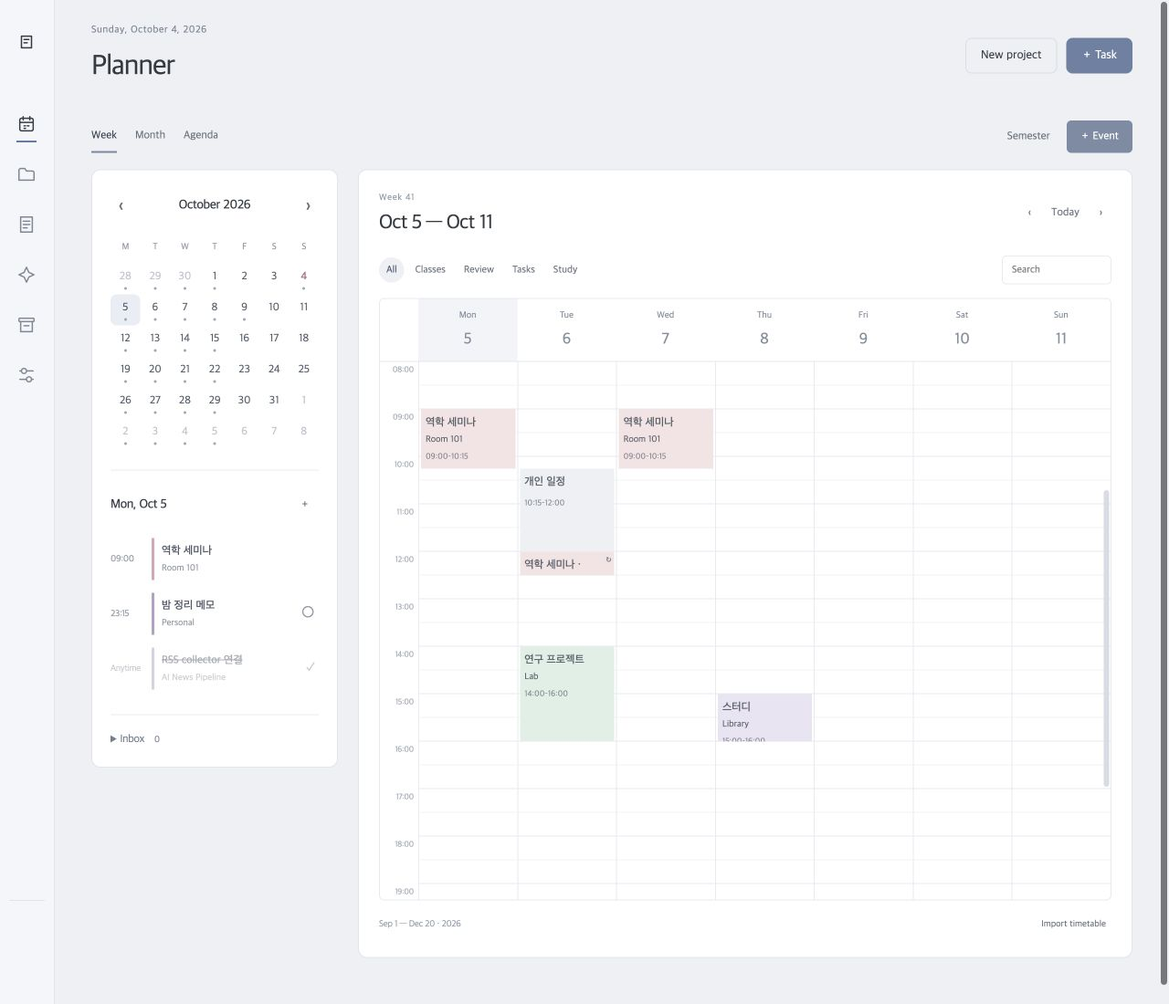
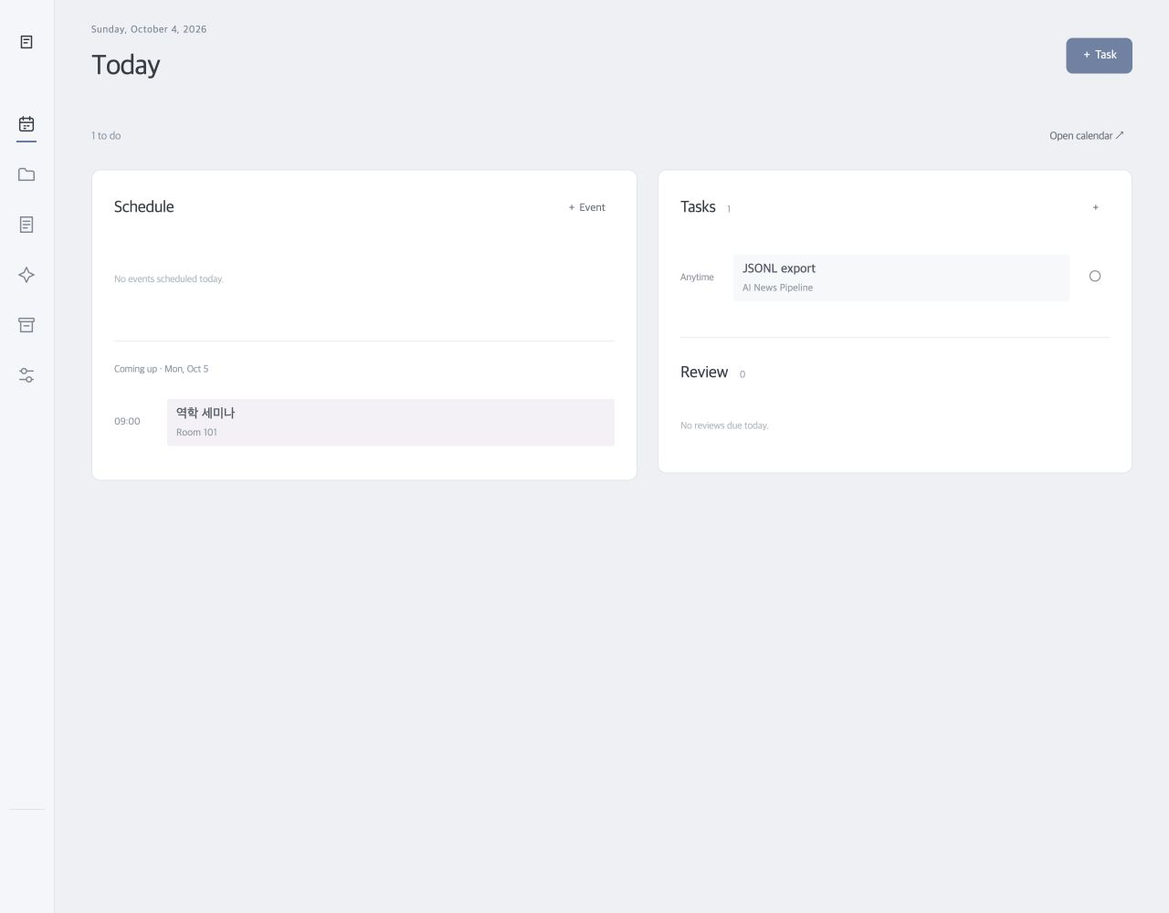
Start calendars on Sunday and separate Today from the planner

diff --git a/js/semesterPlanner.js b/js/semesterPlanner.js
@@ -1,9 +1,9 @@
-import { getState, saveState, id, todayKey, escapeHtml as esc } from './supabaseClient.js?v=8';
-import { weekDates, timedEvents } from './plannerView.js';
-import { weekdays, dateKey, shiftDate, minutes, clock, validateEvent, occursOn, dayEntries, monthDays, parseTimetable, reviewPlan } from './semesterStore.js';
+import { getState, saveState, id, todayKey, escapeHtml as esc } from './supabaseClient.js?v=9';
+import { weekDates, timedEvents } from './plannerView.js?v=2';
+import { weekdays, dateKey, shiftDate, minutes, clock, validateEvent, occursOn, dayEntries, monthDays, parseTimetable, reviewPlan, todaySummary } from './semesterStore.js?v=2';
 import { writeNote } from './notesStore.js';
 
-export function initializeSemesterPlanner(userId, onChange = () => {}) {
+export function initializeSemesterPlanner(userId, onChange = () => {}, {view='planner'} = {}) {
   const root=document.querySelector('#workspace-view'), today=todayKey();
   let selected=today, month=today.slice(0,7)+'-01', mode=matchMedia('(max-width:800px)').matches?'month':'week', query='', kind='all', current=null, editing=null, reviews=[];
   const label=(day,options={month:'short',day:'numeric'})=>new Date(day+'T12:00:00').toLocaleDateString('en-US',options);
@@ -14,10 +14,11 @@ export function initializeSemesterPlanner(userId, onChange = () => {}) {
   const ownedTasks=()=>{const s=getState();return s.tasks.filter(t=>t.user_id===userId&&s.projects.some(p=>p.id===t.project_id&&p.user_id===userId));};
   const button=(text,attrs='')=>`<button type="button" class="cal-button" ${attrs}>${text}</button>`;
   root.classList.add('semester-workspace');
+  root.classList.toggle('is-today-workspace',view==='today');
   root.innerHTML=`<div class="semester-toolbar"><div class="cal-segments" aria-label="Calendar view">${['week','month','agenda'].map(m=>button(m[0].toUpperCase()+m.slice(1),`data-mode="${m}" aria-pressed="${mode===m}"`)).join('')}</div><div class="calendar-actions">${button('Semester','data-action="semester"')}${button('＋ Event','data-action="new-event"')}</div></div>
     <div class="semester-layout"><aside class="calendar-sidebar"><section class="mini-month" aria-label="Date picker"></section><section class="selected-day"><div class="calendar-section-heading"><h2 id="selected-day-label"></h2>${button('＋','data-action="new-task" aria-label="Add task on selected day"')}</div><div id="selected-day-items"></div></section><details class="task-inbox" id="calendar-overdue"><summary>Overdue <span id="calendar-overdue-count"></span></summary><div id="calendar-overdue-list"></div></details><details class="task-inbox"><summary>Inbox <span id="inbox-count"></span></summary><div id="inbox-list"></div></details></aside>
     <section class="semester-main"><header class="calendar-heading"><div><p id="calendar-subtitle"></p><h2 id="calendar-period"></h2></div><div class="calendar-paging">${button('‹','data-action="previous" aria-label="Previous period"')}${button('Today','data-action="today"')}${button('›','data-action="next" aria-label="Next period"')}</div></header>
-      <div class="calendar-filter"><div class="calendar-kinds">${[['all','All'],['class','Classes'],['review','Review'],['task','Tasks'],['study','Study']].map(([k,text])=>button(text,`data-kind="${k}" aria-pressed="${k==='all'}"`)).join('')}</div><input type="search" id="calendar-search" aria-label="Search calendar" placeholder="Search"></div><div id="semester-grid"></div><footer class="calendar-foot"><span id="semester-caption"></span>${button('Import timetable','data-action="import"')}</footer></section></div>`;
+      <div class="calendar-filter"><div class="calendar-kinds">${[['all','All'],['class','Classes'],['review','Review'],['task','Tasks'],['study','Study']].map(([k,text])=>button(text,`data-kind="${k}" aria-pressed="${k==='all'}"`)).join('')}</div><input type="search" id="calendar-search" aria-label="Search calendar" placeholder="Search"></div><div id="semester-grid"></div><footer class="calendar-foot"><span id="semester-caption"></span>${button('Import timetable','data-action="import"')}</footer></section></div><div id="today-overview" ${view==='today'?'':'hidden'}></div>`;
   document.body.insertAdjacentHTML('beforeend',`
     <dialog id="semester-event" class="modal calendar-modal"><form id="semester-event-form"><header><p class="eyebrow">Calendar</p><h2 id="event-editor-title">New event</h2></header><label>Name<input name="title" required maxlength="120"></label><div class="schedule-fields"><label>Type<select name="kind"><option value="class">Class</option><option value="study">Study</option><option value="event">Personal</option></select></label><label>Location<input name="location" maxlength="80" placeholder="Room or link"></label><label>Date<input name="first_date" type="date" required></label><label>Repeat<select name="repeat"><option value="none">Once</option><option value="weekly">Weekly</option><option value="daily">Daily</option></select></label><label>Start<input name="start_time" type="time" required></label><label>End<input name="end_time" type="time" required></label><label class="recurrence-field">Weekday<select name="weekday">${weekdays.map((d,i)=>`<option value="${i}">${d}</option>`).join('')}</select></label><label class="recurrence-field">Until<input name="last_date" type="date"></label></div><fieldset class="calendar-swatches"><legend>Color</legend>${['Rose','Butter','Mint','Sky','Lilac','Peach'].map((text,i)=>`<label class="tone-${i}" title="${text}"><input type="radio" name="color" value="${i}" ${i===0?'checked':''} aria-label="${text}"></label>`).join('')}</fieldset><p class="form-error" role="alert"></p><div class="form-actions">${button('Pause series','id="pause-series" hidden')}${button('Restore skipped dates','id="restore-skipped" hidden')}${button('Cancel','data-close') }<button class="button button-primary" type="submit">Save event</button></div></form></dialog>
     <dialog id="semester-settings" class="modal calendar-modal"><form id="semester-settings-form"><p class="eyebrow">Timetable</p><h2>Semester</h2><div class="schedule-fields"><label>Start date<input type="date" name="start" required></label><label>End date<input type="date" name="end" required></label></div><p class="calendar-hint">Applies to repeating classes. Study sessions and tasks keep their dates.</p><div id="semester-class-list"></div><p class="form-error" role="alert"></p><div class="form-actions">${button('Cancel','data-close')}<button class="button button-primary" type="submit">Save semester</button></div></form></dialog>
@@ -33,21 +34,37 @@ export function initializeSemesterPlanner(userId, onChange = () => {}) {
   document.querySelectorAll('.calendar-modal [data-close]').forEach(b=>b.onclick=()=>b.closest('dialog').close());
   function dayButton(day,large=false){const list=entries(day),active=day===selected;return `<button type="button" data-date="${day}" class="month-date ${active?'selected':''} ${day===today?'is-today':''} ${day.slice(0,7)!==month.slice(0,7)?'other-month':''}" aria-label="${label(day,{weekday:'long',month:'long',day:'numeric',year:'numeric'})}" aria-pressed="${active}"><span>${Number(day.slice(8))}</span>${large?`<div class="month-events">${list.slice(0,3).map(e=>`<small class="${color(e)} ${e.completed?'is-complete':''}">${esc(e.title)}</small>`).join('')}${list.length>3?`<em>+${list.length-3}</em>`:''}</div>`:`<i class="month-dot ${list.length?'has-events':''}"></i>`}</button>`;}
   function row(e){return `<div class="calendar-day-row ${e.completed?'is-complete':''}"><span class="calendar-row-time">${e.start_time||'Anytime'}</span><button type="button" class="calendar-item ${color(e)}" data-entry="${e.id}" data-source="${e.source}" data-on="${e.date}"><strong>${esc(e.title)}</strong><small>${esc(e.location||({class:'Class',review:'Review',task:'Task',study:'Study',event:'Personal'}[e.kind]))}</small></button>${e.kind!=='class'?`<button type="button" class="calendar-check" data-complete="${e.id}" data-source="${e.source}" data-on="${e.date}" aria-label="${e.completed?'Reopen':'Complete'} ${esc(e.title)}" aria-pressed="${Boolean(e.completed)}">${e.completed?'✓':'○'}</button>`:''}</div>`;}
+  function renderToday(){
+    const summary=todaySummary(getState(),userId,today);
+    const list=(items,empty)=>items.map(row).join('')||`<p class="calendar-empty">${empty}</p>`;
+    const next=summary.next;
+    const wasOpen=Object.fromEntries([...root.querySelectorAll('.today-disclosure')].map(el=>[el.id,el.open]));
+    $('#today-overview').innerHTML=`<div class="today-toolbar"><span>${summary.tasks.length+summary.reviews.length} to do</span><a class="cal-button" href="index.html">Open calendar ↗</a></div>
+      <div class="today-layout"><section class="today-panel today-schedule"><header class="today-section-heading"><h2>Schedule</h2>${button('＋ Event','data-action="new-event"')}</header>
+        <div class="today-schedule-list">${list(summary.schedule,'No events scheduled today.')}</div>
+        ${next?`<section class="today-next"><p>Coming up · ${label(next.date,{weekday:'short',month:'short',day:'numeric'})}</p>${row(next)}</section>`:''}</section>
+      <section class="today-panel today-checklist"><section><header class="today-section-heading"><h2>Tasks <span>${summary.tasks.length}</span></h2>${button('＋','data-action="new-task" aria-label="Add task today"')}</header>${list(summary.tasks,'All caught up.')}</section>
+        <section class="today-review"><header class="today-section-heading"><h2>Review <span>${summary.reviews.length}</span></h2></header>${list(summary.reviews,'No reviews due today.')}</section>
+        ${summary.overdue.length?`<details class="task-inbox today-disclosure" id="today-overdue" ${wasOpen['today-overdue']?'open':''}><summary>Overdue <span>${summary.overdue.length}</span></summary>${list(summary.overdue,'')}</details>`:''}
+        ${summary.completed.length?`<details class="task-inbox today-disclosure" id="today-completed" ${wasOpen['today-completed']?'open':''}><summary>Completed <span>${summary.completed.length}</span></summary>${list(summary.completed,'')}</details>`:''}
+      </section></div>`;
+  }
   function refresh(){
+    if(view==='today'){renderToday();return;}
     const days=weekDates(selected),s=semester();
-    $('.mini-month').innerHTML=`<header>${button('‹','data-month="-1" aria-label="Previous month"')}<h2>${label(month,{month:'long',year:'numeric'})}</h2>${button('›','data-month="1" aria-label="Next month"')}</header><div class="mini-weekdays">${['M','T','W','T','F','S','S'].map(d=>`<span>${d}</span>`).join('')}</div><div class="mini-days">${monthDays(month).map(d=>dayButton(d)).join('')}</div>`;
+    $('.mini-month').innerHTML=`<header>${button('‹','data-month="-1" aria-label="Previous month"')}<h2>${label(month,{month:'long',year:'numeric'})}</h2>${button('›','data-month="1" aria-label="Next month"')}</header><div class="mini-weekdays">${['S','M','T','W','T','F','S'].map(d=>`<span>${d}</span>`).join('')}</div><div class="mini-days">${monthDays(month).map(d=>dayButton(d)).join('')}</div>`;
     $('#selected-day-label').textContent=label(selected,{weekday:'short',month:'short',day:'numeric'});
     const list=entries(selected);$('#selected-day-items').innerHTML=list.map(row).join('')||'<p class="calendar-empty">A clear day.</p>';
     const late=ownedTasks().filter(t=>!t.completed&&((t.due_date&&t.due_date<today)||(t.planned_date&&t.planned_date<today)));$('#calendar-overdue').hidden=!late.length;$('#calendar-overdue-count').textContent=late.length;$('#calendar-overdue-list').innerHTML=late.map(t=>row({...t,source:'task',kind:'task',date:t.planned_date||t.due_date})).join('');
     const inbox=ownedTasks().filter(t=>!t.completed&&!t.planned_date&&(!query||t.title.toLocaleLowerCase().includes(query)));
     $('#inbox-count').textContent=inbox.length;$('#inbox-list').innerHTML=inbox.map(t=>row({...t,source:'task',kind:'task',date:selected})).join('')||'<p class="calendar-empty">All caught up.</p>';
-    $('#calendar-subtitle').textContent=mode==='week'?'Week '+weekNumber(selected):mode==='month'?'Monthly overview':'Daily list';
+    $('#calendar-subtitle').textContent=mode==='week'?'Weekly timetable':mode==='month'?'Monthly overview':'Daily list';
     $('#calendar-period').textContent=mode==='month'?label(month,{month:'long',year:'numeric'}):label(days[0])+' — '+label(days[6]);
     $('#semester-caption').textContent=label(s.start)+' — '+label(s.end)+' · '+s.end.slice(0,4);
     root.querySelectorAll('[data-mode]').forEach(b=>b.setAttribute('aria-pressed',String(b.dataset.mode===mode)));
     root.querySelectorAll('[data-kind]').forEach(b=>b.setAttribute('aria-pressed',String(b.dataset.kind===kind)));
     const grid=$('#semester-grid'), previous=grid.querySelector('.semester-time-scroll'),top=previous?.scrollTop,left=previous?.scrollLeft;
-    if(mode==='month')grid.innerHTML=`<div class="full-month"><div class="month-weekdays">${['Mon','Tue','Wed','Thu','Fri','Sat','Sun'].map(d=>`<span>${d}</span>`).join('')}</div><div class="full-month-days">${monthDays(month).slice(0,monthDays(month)[35].slice(0,7)===month.slice(0,7)?42:35).map(d=>dayButton(d,true)).join('')}</div></div>`;
+    if(mode==='month')grid.innerHTML=`<div class="full-month"><div class="month-weekdays">${weekdays.map(d=>`<span>${d}</span>`).join('')}</div><div class="full-month-days">${monthDays(month).slice(0,monthDays(month)[35].slice(0,7)===month.slice(0,7)?42:35).map(d=>dayButton(d,true)).join('')}</div></div>`;
     else if(mode==='agenda')grid.innerHTML=`<div class="semester-agenda">${days.map(day=>`<section><h3><button data-date="${day}">${label(day,{weekday:'short',month:'short',day:'numeric'})}</button></h3>${entries(day).map(row).join('')||'<p class="calendar-empty">No events.</p>'}</section>`).join('')}</div>`;
     else{
       const events=days.map(day=>entries(day));
@@ -59,7 +76,6 @@ export function initializeSemesterPlanner(userId, onChange = () => {}) {
     }
     root.dataset.mode=mode;
   }
-  function weekNumber(day){const d=new Date(day+'T12:00:00');d.setDate(d.getDate()+3-(d.getDay()+6)%7);const first=new Date(d.getFullYear(),0,4);return 1+Math.round(((d-first)/86400000-3+(first.getDay()+6)%7)/7);}
   function selectDate(day){selected=day;month=day.slice(0,7)+'-01';refresh();}
   function moveMonth(amount){const d=new Date(month+'T12:00:00');d.setMonth(d.getMonth()+amount);month=dateKey(d);if(mode==='month')selected=month;refresh();}
   function findEntry(id,source,day){return source==='task'?ownedTasks().find(e=>e.id===id):dayEntries(getState(),userId,day).find(e=>e.id===id&&e.source==='event');}

diff --git a/js/supabaseClient.js b/js/supabaseClient.js
@@ -16,5 +16,5 @@ export function saveSettings(userId, settings) { const state = getState(); state
 export function seedDemo() { const state = getState(); if (state.projects.length) return; const projectId = id(); const today = todayKey(); state.settings.demo = getSettings('demo'); state.projects.push({ id: projectId, user_id: 'demo', name: 'AI News Pipeline', description: '개인 뉴스 자동화 프로젝트', project_type: 'development', goal: 'AI 뉴스를 자동 수집하고 분석하여 매주 읽을 수 있는 리포트를 완성한다.', due_date: addDays(today, 12), status: 'active', created_at: new Date().toISOString(), updated_at: new Date().toISOString() }); ['RSS collector 연결','기사 요약 프롬프트 설계','CSV export 구현','JSONL export','README 실행 방법 보완'].forEach((title, index) => state.tasks.push({ id: id(), project_id: projectId, user_id: 'demo', title, priority: index < 2 ? 'high' : 'medium', completed: index < 3, planned_date: index === 3 ? today : addDays(today, index + 1), due_date: addDays(today, index + 4), created_at: new Date().toISOString(), updated_at: new Date().toISOString() })); state.issues.push({ id: id(), project_id: projectId, user_id: 'demo', content: '일부 수집 데이터의 날짜 정보가 누락됨', severity: 'high', status: 'open', created_at: new Date().toISOString() }); saveState(state); }
 export function projectProgress(projectId, state = getState()) { const tasks = state.tasks.filter(task => task.project_id === projectId); return tasks.length ? Math.round(tasks.filter(task => task.completed).length / tasks.length * 100) : 0; }
 export function logout() { setSession(null); location.href = 'login.html'; }
-export function wireLogout() { document.querySelectorAll('button[value="cancel"]').forEach(button=>{button.type="button";button.addEventListener("click",()=>button.closest("dialog").close());}); document.querySelectorAll('[data-logout]').forEach(button => button.addEventListener('click', logout)); if (document.body.dataset.page !== 'login' && !document.querySelector('.workspace-sidebar')) { document.head.insertAdjacentHTML('beforeend', '<link rel="stylesheet" href="css/style.css?v=2"><link rel="stylesheet" href="css/v12.css?v=1"><link rel="stylesheet" href="css/calendar.css?v=1"><link rel="stylesheet" href="css/settings.css?v=1"><link rel="stylesheet" href="css/roles.css?v=1"><link rel="stylesheet" href="css/design.css?v=7">'); const page = document.body.dataset.page; const selectedView = new URLSearchParams(location.search).get('view'); const active = page === 'archive' ? 'archive' : page === 'dashboard' ? (selectedView === 'notes' ? 'notes' : selectedView === 'ai' ? 'ai' : selectedView === 'projects' ? 'projects' : 'dashboard') : page === 'settings' ? 'settings' : page === 'insights' ? 'ai' : 'projects'; document.body.insertAdjacentHTML('afterbegin', `<div class="navigation-drawer"><aside id="workspace-menu" class="workspace-sidebar"><a class="sidebar-brand" href="index.html"><svg class="nav-icon" viewBox="0 0 24 24" fill="none" stroke="currentColor" stroke-width="1.6" stroke-linecap="round" stroke-linejoin="round" aria-hidden="true"><path d="M6 5h12v14H6zM9 9h6m-6 4h4"/></svg><span class="brand-label">ProjectFlow</span></a><nav><a class="sidebar-link ${active === 'dashboard' ? 'selected' : ''}" href="index.html" title="Today"><svg class="nav-icon" viewBox="0 0 24 24" fill="none" stroke="currentColor" stroke-width="1.6" stroke-linecap="round" stroke-linejoin="round" aria-hidden="true"><rect x="4" y="5" width="16" height="15" rx="2"/><path d="M8 3v4m8-4v4M4 10h16m-11 4h2m2 0h2m-6 3h2"/></svg><span class="nav-label">Today</span></a><a class="sidebar-link ${active === 'projects' ? 'selected' : ''}" href="index.html?view=projects" title="Projects"><svg class="nav-icon" viewBox="0 0 24 24" fill="none" stroke="currentColor" stroke-width="1.6" stroke-linecap="round" stroke-linejoin="round" aria-hidden="true"><path d="M3 7a2 2 0 0 1 2-2h5l2 3h7a2 2 0 0 1 2 2v9H3z"/></svg><span class="nav-label">Projects</span></a><a class="sidebar-link ${active === 'notes' ? 'selected' : ''}" href="index.html?view=notes" title="Notes"><svg class="nav-icon" viewBox="0 0 24 24" fill="none" stroke="currentColor" stroke-width="1.6" stroke-linecap="round" stroke-linejoin="round" aria-hidden="true"><path d="M5 3h14v18H5zM8 8h8m-8 4h8m-8 4h5"/></svg><span class="nav-label">Notes</span></a><a class="sidebar-link ${active === 'ai' ? 'selected' : ''}" href="index.html?view=ai" title="AI"><svg class="nav-icon" viewBox="0 0 24 24" fill="none" stroke="currentColor" stroke-width="1.6" stroke-linecap="round" stroke-linejoin="round" aria-hidden="true"><path d="m12 3 2.8 6.2L21 12l-6.2 2.8L12 21l-2.8-6.2L3 12l6.2-2.8z"/></svg><span class="nav-label">AI</span></a><a class="sidebar-link ${active === 'archive' ? 'selected' : ''}" href="archive.html" title="Archive"><svg class="nav-icon" viewBox="0 0 24 24" fill="none" stroke="currentColor" stroke-width="1.6" stroke-linecap="round" stroke-linejoin="round" aria-hidden="true"><rect x="3" y="4" width="18" height="4" rx="1"/><path d="M5 8v12h14V8m-10 5h6"/></svg><span class="nav-label">Archive</span></a><a class="sidebar-link ${active === 'settings' ? 'selected' : ''}" href="settings.html" title="Settings"><svg class="nav-icon" viewBox="0 0 24 24" fill="none" stroke="currentColor" stroke-width="1.6" stroke-linecap="round" stroke-linejoin="round" aria-hidden="true"><path d="M4 7h16M4 17h16"/><circle cx="9" cy="7" r="3" fill="#f5f6fa"/><circle cx="15" cy="17" r="3" fill="#f5f6fa"/></svg><span class="nav-label">Settings</span></a></nav><div class="sidebar-footer"><span class="sidebar-status">Personal workspace</span><button class="sidebar-logout" data-logout>Sign out</button></div></aside></div>`); const drawer=document.querySelector('.navigation-drawer');let openTimer,closeTimer;drawer.addEventListener('mouseenter',()=>{clearTimeout(closeTimer);if(matchMedia('(hover: hover) and (min-width:801px)').matches){clearTimeout(openTimer);openTimer=setTimeout(()=>drawer.classList.add('hover-open'),80);}});drawer.addEventListener('mouseleave',()=>{clearTimeout(openTimer);closeTimer=setTimeout(()=>drawer.classList.remove('hover-open'),180);});const sidebarLogout = document.querySelector('.sidebar-logout'); if (sidebarLogout) sidebarLogout.addEventListener('click', logout); } }
+export function wireLogout() { document.querySelectorAll('button[value="cancel"]').forEach(button=>{button.type="button";button.addEventListener("click",()=>button.closest("dialog").close());}); document.querySelectorAll('[data-logout]').forEach(button => button.addEventListener('click', logout)); if (document.body.dataset.page !== 'login' && !document.querySelector('.workspace-sidebar')) { document.head.insertAdjacentHTML('beforeend', '<link rel="stylesheet" href="css/style.css?v=2"><link rel="stylesheet" href="css/v12.css?v=1"><link rel="stylesheet" href="css/calendar.css?v=1"><link rel="stylesheet" href="css/settings.css?v=1"><link rel="stylesheet" href="css/roles.css?v=1"><link rel="stylesheet" href="css/design.css?v=7">'); const page = document.body.dataset.page; const selectedView = new URLSearchParams(location.search).get('view'); const active = page === 'archive' ? 'archive' : page === 'dashboard' ? (selectedView === 'notes' ? 'notes' : selectedView === 'ai' ? 'ai' : selectedView === 'projects' ? 'projects' : selectedView === 'today' ? 'today' : 'planner') : page === 'settings' ? 'settings' : page === 'insights' ? 'ai' : 'projects'; document.body.insertAdjacentHTML('afterbegin', `<div class="navigation-drawer"><aside id="workspace-menu" class="workspace-sidebar"><a class="sidebar-brand" href="index.html" ${active === 'planner' ? 'aria-current="page"' : ''}><svg class="nav-icon" viewBox="0 0 24 24" fill="none" stroke="currentColor" stroke-width="1.6" stroke-linecap="round" stroke-linejoin="round" aria-hidden="true"><path d="M6 5h12v14H6zM9 9h6m-6 4h4"/></svg><span class="brand-label">ProjectFlow</span></a><nav><a class="sidebar-link ${active === 'today' ? 'selected' : ''}" href="index.html?view=today" title="Today" ${active === 'today' ? 'aria-current="page"' : ''}><svg class="nav-icon" viewBox="0 0 24 24" fill="none" stroke="currentColor" stroke-width="1.6" stroke-linecap="round" stroke-linejoin="round" aria-hidden="true"><rect x="4" y="5" width="16" height="15" rx="2"/><path d="M8 3v4m8-4v4M4 10h16m-11 4h2m2 0h2m-6 3h2"/></svg><span class="nav-label">Today</span></a><a class="sidebar-link ${active === 'projects' ? 'selected' : ''}" href="index.html?view=projects" title="Projects"><svg class="nav-icon" viewBox="0 0 24 24" fill="none" stroke="currentColor" stroke-width="1.6" stroke-linecap="round" stroke-linejoin="round" aria-hidden="true"><path d="M3 7a2 2 0 0 1 2-2h5l2 3h7a2 2 0 0 1 2 2v9H3z"/></svg><span class="nav-label">Projects</span></a><a class="sidebar-link ${active === 'notes' ? 'selected' : ''}" href="index.html?view=notes" title="Notes"><svg class="nav-icon" viewBox="0 0 24 24" fill="none" stroke="currentColor" stroke-width="1.6" stroke-linecap="round" stroke-linejoin="round" aria-hidden="true"><path d="M5 3h14v18H5zM8 8h8m-8 4h8m-8 4h5"/></svg><span class="nav-label">Notes</span></a><a class="sidebar-link ${active === 'ai' ? 'selected' : ''}" href="index.html?view=ai" title="AI"><svg class="nav-icon" viewBox="0 0 24 24" fill="none" stroke="currentColor" stroke-width="1.6" stroke-linecap="round" stroke-linejoin="round" aria-hidden="true"><path d="m12 3 2.8 6.2L21 12l-6.2 2.8L12 21l-2.8-6.2L3 12l6.2-2.8z"/></svg><span class="nav-label">AI</span></a><a class="sidebar-link ${active === 'archive' ? 'selected' : ''}" href="archive.html" title="Archive"><svg class="nav-icon" viewBox="0 0 24 24" fill="none" stroke="currentColor" stroke-width="1.6" stroke-linecap="round" stroke-linejoin="round" aria-hidden="true"><rect x="3" y="4" width="18" height="4" rx="1"/><path d="M5 8v12h14V8m-10 5h6"/></svg><span class="nav-label">Archive</span></a><a class="sidebar-link ${active === 'settings' ? 'selected' : ''}" href="settings.html" title="Settings"><svg class="nav-icon" viewBox="0 0 24 24" fill="none" stroke="currentColor" stroke-width="1.6" stroke-linecap="round" stroke-linejoin="round" aria-hidden="true"><path d="M4 7h16M4 17h16"/><circle cx="9" cy="7" r="3" fill="#f5f6fa"/><circle cx="15" cy="17" r="3" fill="#f5f6fa"/></svg><span class="nav-label">Settings</span></a></nav><div class="sidebar-footer"><span class="sidebar-status">Personal workspace</span><button class="sidebar-logout" data-logout>Sign out</button></div></aside></div>`); const drawer=document.querySelector('.navigation-drawer');let openTimer,closeTimer;drawer.addEventListener('mouseenter',()=>{clearTimeout(closeTimer);if(matchMedia('(hover: hover) and (min-width:801px)').matches){clearTimeout(openTimer);openTimer=setTimeout(()=>drawer.classList.add('hover-open'),80);}});drawer.addEventListener('mouseleave',()=>{clearTimeout(openTimer);closeTimer=setTimeout(()=>drawer.classList.remove('hover-open'),180);});const sidebarLogout = document.querySelector('.sidebar-logout'); if (sidebarLogout) sidebarLogout.addEventListener('click', logout); } }
 export function escapeHtml(value = '') { return value.replace(/[&<>'"]/g, char => ({ '&':'&amp;', '<':'&lt;', '>':'&gt;', "'":'&#39;', '"':'&quot;' }[char])); }

diff --git a/index.html b/index.html
@@ -1,10 +1,11 @@
 <!doctype html>
 <html lang="en">
-<head><meta charset="UTF-8"><meta name="viewport" content="width=device-width, initial-scale=1"><title>ProjectFlow | Today</title><link rel="stylesheet" href="css/style.css?v=3"><link rel="stylesheet" href="css/project-delete.css?v=1"><link rel="stylesheet" href="css/design.css?v=7"><link rel="stylesheet" href="css/semester.css?v=1"></head>
+<head><meta charset="UTF-8"><meta name="viewport" content="width=device-width, initial-scale=1"><title>ProjectFlow | Planner</title><link rel="stylesheet" href="css/style.css?v=3"><link rel="stylesheet" href="css/project-delete.css?v=1"><link rel="stylesheet" href="css/design.css?v=7"><link rel="stylesheet" href="css/semester.css?v=2"></head>
 <body data-page="dashboard">
   <header class="topbar"><a class="brand" href="index.html"><span class="brand-mark">PF</span><span>ProjectFlow</span></a><nav class="top-actions"><a class="text-link" href="archive.html">Archive</a><button class="button button-ghost" data-logout>Sign out</button></nav></header>
   <main class="shell dashboard-shell planner-shell">
-    <header class="planner-heading"><div><p class="eyebrow" id="planner-date"></p><h1 id="view-title">Today</h1></div><div class="planner-header-actions"><button class="button button-ghost" data-open-project>New project</button><button class="button button-primary" id="quick-task-open">＋ Task</button></div></header>
+    <a class="mobile-planner-brand" href="index.html">ProjectFlow</a>
+    <header class="planner-heading"><div><p class="eyebrow" id="planner-date"></p><h1 id="view-title">Planner</h1></div><div class="planner-header-actions"><button class="button button-ghost" data-open-project>New project</button><button class="button button-primary" id="quick-task-open">＋ Task</button></div></header>
     <div id="workspace-view"></div>
     <section id="projects-section" class="project-board-section"><div class="section-heading"><h2>Projects <span id="active-count" class="small-count"></span></h2></div><div id="project-grid" class="project-board"></div><section id="empty-state" class="empty-state hidden"><h2>Create your first project.</h2><p>Add a goal to get an AI schedule.</p><button class="button button-primary" data-open-project>＋ New project</button></section></section>
     <section id="notes-view" class="notes-workspace hidden" aria-label="Notes">
@@ -18,7 +19,7 @@
   <dialog id="project-modal" class="modal"><form method="dialog" id="project-form"><button class="modal-close" value="cancel" aria-label="Close">×</button><p class="eyebrow">New project</p><h2>New project</h2><label>Project name<input name="name" required maxlength="80" placeholder="e.g. Mechanics II"></label><label>Project type<select name="project_type"><option value="school">School</option><option value="home">Home</option><option value="work">Work</option><option value="study">Study</option><option value="development">Development</option><option value="research">Research</option><option value="content">Content</option><option value="personal" selected>Personal</option><option value="other">Other</option></select></label><label>Goal<textarea name="goal" required rows="3" placeholder="e.g. Prepare for the final exam"></textarea></label><label>Deadline<input name="due_date" type="date"></label><label>Description (optional)<textarea name="description" rows="2" placeholder="Additional project details"></textarea></label><p class="analysis-notice">AI scheduling sends your goal and description to Codyssey. Without a deadline, it plans the next 7 days. Do not include secrets.</p><p id="project-status" class="form-status" role="status" aria-live="polite"></p><div class="form-actions"><button class="button button-ghost" value="cancel">Cancel</button><button class="button button-ghost" id="empty-project" type="button">Add manually</button><button class="button button-primary" id="ai-project" type="submit">Plan with AI</button></div></form></dialog>
   <dialog id="plan-modal" class="modal wide-modal"><form method="dialog" id="plan-form"><button class="modal-close" value="cancel" aria-label="Close">×</button><p class="eyebrow">AI SCHEDULE</p><h2 id="plan-title">Suggested schedule</h2><p class="muted">Select the sessions you want to add.</p><div id="starter-list" class="starter-list"></div><div class="form-actions"><button class="button button-ghost" value="cancel">Cancel</button><button class="button button-primary" value="default">Add selected sessions</button></div></form></dialog>
 
-  <script type="module" src="js/dashboard.js?v=12"></script>
+  <script type="module" src="js/dashboard.js?v=13"></script>
 </body>
 </html>
 

diff --git a/js/dashboard.js b/js/dashboard.js
@@ -1,7 +1,7 @@
 import { initializeNotes } from './notes.js?v=1';
 import { wireProjectDeletion } from './projectDeleteUI.js?v=2';
-import { getState, saveState, requireSession, projectProgress, id, todayKey, getProjectTypes, wireLogout, escapeHtml } from './supabaseClient.js?v=8';
-import { initializeSemesterPlanner } from './semesterPlanner.js?v=1';
+import { getState, saveState, requireSession, projectProgress, id, todayKey, getProjectTypes, wireLogout, escapeHtml } from './supabaseClient.js?v=9';
+import { initializeSemesterPlanner } from './semesterPlanner.js?v=2';
 const session=requireSession();if(!session)throw new Error('No session');
 wireLogout();wireProjectDeletion(session);
 let state=getState();const today=todayKey();
@@ -11,13 +11,16 @@ const projectById=pid=>state.projects.find(p=>p.id===pid&&p.user_id===session.id
 const taskProject=t=>projectById(t.project_id);
 const typeSelect=document.querySelector('select[name="project_type"]');
 if(typeSelect)typeSelect.innerHTML=projectTypes.map(t=>'<option value="'+t.key+'">'+escapeHtml(t.label)+'</option>').join('');
-const view=new URLSearchParams(location.search).get('view')||'today';
-document.body.classList.toggle('is-planner',view==='today');
-document.querySelector('#workspace-view').classList.toggle('hidden',view!=='today');
+const requestedView=new URLSearchParams(location.search).get('view');
+const view=['today','projects','notes','ai'].includes(requestedView)?requestedView:'planner';
+const calendarView=view==='planner'||view==='today';
+document.body.classList.toggle('is-planner',calendarView);
+document.body.classList.toggle('is-today-view',view==='today');
+document.querySelector('#workspace-view').classList.toggle('hidden',!calendarView);
 document.querySelector('#projects-section').classList.toggle('hidden',view!=='projects');
 document.querySelector('#ai-view').classList.toggle('hidden',view!=='ai');
 document.querySelector('#notes-view').classList.toggle('hidden',view!=='notes');document.querySelector('.planner-header-actions').classList.toggle('hidden',view==='notes');if(view==='notes')initializeNotes(session.id);
-document.querySelector('#view-title').textContent=view==='notes'?'Notes':view==='projects'?'Projects':view==='ai'?'AI':'Planner';
+document.querySelector('#view-title').textContent=view==='notes'?'Notes':view==='projects'?'Projects':view==='ai'?'AI':view==='today'?'Today':'Planner';
 document.title='ProjectFlow | '+document.querySelector('#view-title').textContent;
 document.querySelector('#planner-date').textContent=new Date(today+'T12:00:00').toLocaleDateString('en-US',{year:'numeric',month:'long',day:'numeric',weekday:'long'});
 const ownedTasks=()=>state.tasks.filter(t=>t.user_id===session.id&&taskProject(t));
@@ -25,7 +28,7 @@ function pastel(p){const index=state.projects.filter(p=>p.user_id===session.id).
 function renderProjects(){const projects=state.projects.filter(p=>p.user_id===session.id&&p.status!=='archived').sort((a,b)=>(a.due_date||'9999').localeCompare(b.due_date||'9999'));document.querySelector('#active-count').textContent=projects.length;document.querySelector('#project-grid').innerHTML=projects.map(p=>{const ts=ownedTasks().filter(t=>t.project_id===p.id);return '<article class="project-list-row"><a href="project.html?id='+p.id+'"><span class="project-color '+pastel(p)+'"></span><div><h3>'+escapeHtml(p.name)+'</h3><small>'+(p.due_date?'Due '+p.due_date:'No deadline')+'</small></div><span class="project-task-count">'+ts.filter(t=>t.completed).length+' / '+ts.length+'</span><span class="project-percent">'+projectProgress(p.id,state)+'%</span></a><button class="button button-ghost button-small" data-delete-project="'+p.id+'" aria-label="'+escapeHtml(p.name)+' Delete project">Delete</button></article>';}).join('');document.querySelector('#empty-state').classList.toggle('hidden',projects.length>0);document.querySelector('#project-grid').classList.toggle('hidden',!projects.length);document.querySelector('#ai-project-list').innerHTML=projects.length?projects.map(p=>'<a class="ai-project-row" href="insights.html?id='+p.id+'"><span>'+escapeHtml(p.name)+'</span><small>Insights →</small></a>').join(''):'<p class="planner-empty">Create a project first.</p>';}
 
 function render(){state=getState();renderProjects();}
-initializeSemesterPlanner(session.id,render);
+initializeSemesterPlanner(session.id,render,{view});
 render();
 const projectModal = document.querySelector('#project-modal');
 document.querySelectorAll('[data-open-project]').forEach(button => button.addEventListener('click', () => projectModal.showModal()));

diff --git a/css/semester.css b/css/semester.css
@@ -10,3 +10,38 @@
 
 body.is-planner .topbar{display:none}body.is-planner .planner-shell{padding-top:24px}.selected-day{scroll-margin-top:18px}.calendar-modal .form-actions{flex-wrap:wrap}.semester-workspace [hidden]{display:none!important}
 .semester-block{display:flex;flex-direction:column;align-items:flex-start;justify-content:flex-start}.semester-block.kind-event{background:#edf0f5}.semester-block strong{flex-shrink:0}.semester-block small{white-space:nowrap}
+
+/* The daily workspace shares the calendar editors and saved data. */
+.mobile-planner-brand{display:none}
+.is-today-view .planner-header-actions [data-open-project]{display:none}
+.is-today-workspace>.semester-toolbar,.is-today-workspace>.semester-layout{display:none}
+.today-toolbar{display:flex;align-items:center;justify-content:space-between;gap:12px;margin-bottom:18px;min-height:35px}
+.today-toolbar>span{font-size:12px;color:#909bab}
+.today-toolbar a{text-decoration:none}
+.today-layout{display:grid;grid-template-columns:minmax(0,1.15fr) minmax(0,1fr);gap:22px;align-items:start}
+.today-panel{background:#fff;border:1px solid #e1e5eb;border-radius:10px;padding:24px;min-width:0}
+.today-section-heading{display:flex;align-items:center;justify-content:space-between;gap:12px;min-height:34px;margin-bottom:20px}
+.today-section-heading h2{font-size:18px;line-height:1.4;font-weight:400;letter-spacing:-.02em;margin:0}
+.today-section-heading h2 span{font-size:11px;color:#a0a7b1;margin-left:8px}
+.today-panel .calendar-day-row{padding:13px 0;gap:12px}
+.today-panel .calendar-row-time{width:46px;flex-basis:46px;font-size:11px}
+.today-panel .calendar-item{padding:6px 10px;border-left:0;background:#f7f8fa!important;border-radius:3px}
+.today-panel .calendar-item strong{font-size:14px}
+.today-panel .calendar-item small{font-size:11px;line-height:1.5}
+.today-panel .calendar-check{min-height:36px;min-width:32px}
+.today-schedule-list>.calendar-empty{padding:32px 0}
+.today-next,.today-review{border-top:1px solid #e9ebef;padding-top:22px;margin-top:26px}
+.today-next>p{font-size:11px;color:#929baa;margin:0 0 10px}
+.today-next .calendar-item{background:#f4f1f7!important}
+.today-review .calendar-item{background:#eef5f0!important}
+.today-disclosure .calendar-item{background:transparent!important}
+@media(max-width:800px){
+  .mobile-planner-brand{display:inline-block;font-size:15px;font-weight:500;letter-spacing:-.4px;color:#667286;text-decoration:none;margin-bottom:26px}
+  .today-layout{grid-template-columns:minmax(0,1fr);gap:16px}
+  .today-panel{padding:20px}
+  .today-toolbar{margin-bottom:14px}
+  .today-section-heading{margin-bottom:12px}
+  .today-schedule-list>.calendar-empty{padding:16px 0}
+  .today-next,.today-review{margin-top:20px;padding-top:18px}
+  .today-panel .calendar-day-row{gap:8px}
+}

diff --git a/js/semesterStore.js b/js/semesterStore.js
@@ -25,7 +25,27 @@ export function dayEntries(state, userId, day) {
   const tasks=(state.tasks||[]).filter(t=>t.user_id===userId && projects.some(p=>p.id===t.project_id) && (t.planned_date||t.due_date)===day).map(t=>({...t,date:day,source:'task',kind:t.review_key?'review':'task',color:t.color??4,location:projects.find(p=>p.id===t.project_id)?.name||'',end_time:t.start_time?clock(Math.min(1440,minutes(t.start_time)+(t.duration_minutes||60))):''}));
   return [...events,...tasks].sort((a,b)=>(a.start_time||'99:99').localeCompare(b.start_time||'99:99'));
 }
-export function monthDays(day) { const first=day.slice(0,7)+'-01'; const offset=(new Date(first+'T12:00:00').getDay()+6)%7; return Array.from({length:42},(_,i)=>shiftDate(first,i-offset)); }
+export function monthDays(day) { const first=day.slice(0,7)+'-01'; const offset=new Date(first+'T12:00:00').getDay(); return Array.from({length:42},(_,i)=>shiftDate(first,i-offset)); }
+
+export function todaySummary(state, userId, today) {
+  const projects=(state.projects||[]).filter(p=>p.user_id===userId);
+  const owned=(state.tasks||[]).filter(t=>t.user_id===userId&&projects.some(p=>p.id===t.project_id));
+  const asEntry=t=>({...t,source:'task',kind:t.review_key?'review':'task',date:t.planned_date||t.due_date||today,location:projects.find(p=>p.id===t.project_id)?.name||''});
+  const relevant=owned.filter(t=>t.planned_date===today||t.due_date===today);
+  const pending=relevant.filter(t=>!t.completed).map(asEntry).sort((a,b)=>(a.start_time||'99:99').localeCompare(b.start_time||'99:99'));
+  const entries=dayEntries(state,userId,today);
+  const overdue=owned.filter(t=>!t.completed&&!relevant.some(r=>r.id===t.id)&&((t.due_date&&t.due_date<today)||(t.planned_date&&t.planned_date<today))).map(asEntry).sort((a,b)=>a.date.localeCompare(b.date));
+  let next=null;
+  for(let offset=1;offset<=7&&!next;offset++) next=dayEntries(state,userId,shiftDate(today,offset)).find(e=>e.start_time&&!e.completed)||null;
+  return {
+    schedule:entries.filter(e=>e.start_time),
+    tasks:pending.filter(e=>e.kind==='task'),
+    reviews:pending.filter(e=>e.kind==='review'),
+    overdue,
+    completed:[...relevant.filter(t=>t.completed).map(asEntry),...entries.filter(e=>e.source==='event'&&e.completed)],
+    next
+  };
+}
 export function parseTimetable(text, firstDate, lastDate) {
   if (!text.trim()) throw new Error('Paste one event per line.');
   return text.trim().split('\n').filter(line=>line.trim()).map((line,index)=>{

diff --git a/js/plannerView.js b/js/plannerView.js
@@ -1,6 +1,6 @@
 export function weekDates(today, offset = 0) {
   const date = new Date(today + 'T12:00:00');
-  date.setDate(date.getDate() - (date.getDay() + 6) % 7 + offset * 7);
+  date.setDate(date.getDate() - date.getDay() + offset * 7);
   return Array.from({length:7},(_,i)=>{ const d=new Date(date);d.setDate(d.getDate()+i);return [d.getFullYear(),String(d.getMonth()+1).padStart(2,'0'),String(d.getDate()).padStart(2,'0')].join('-'); });
 }
 export function timedEvents(tasks, day) {

diff --git a/README.md b/README.md
@@ -16,17 +16,18 @@
 | 페이지 | 사용자에게 제공하는 기능 |
 | --- | --- |
 | 로그인 | 데모 워크스페이스 진입 |
-| 대시보드 | 학기 시간표, 월간 달력, 날짜별 할 일, 반복 복습 |
+| ProjectFlow · Planner | 일요일부터 시작하는 주간 시간표·월간 달력, 날짜별 할 일, 반복 복습 |
+| Today | 오늘 일정·할 일·복습, 미완료 항목과 다음 일정 |
 | Notes | 메모 자동 저장, 검색, 고정, 프로젝트 연결, Trash 복원 |
 | 프로젝트 목록 | 작업 완료·추가, 이슈 관리, 진행률 |
 | AI 인사이트 | 질문 입력, 상황 요약, 다음 단계와 위험 대응 |
 | 보관함 | 완료한 작업과 완료·보관 프로젝트 |
 | 설정 | 프로젝트 유형 관리, 선택 학기 Canvas 과제 연동 |
 
-화면의 기본 문구는 영어이며 과목명·프로젝트명·직접 입력한 메모는 원문을 유지합니다. 데스크톱은 60px 아이콘 레일에 커서를 올리면 메뉴 이름이 펼쳐집니다. 모바일은 하단 고정 메뉴와 Tasks/Calendar 전환을 사용합니다.
+화면의 기본 문구는 영어이며 과목명·프로젝트명·직접 입력한 메모는 원문을 유지합니다. 데스크톱은 60px 아이콘 레일에 커서를 올리면 메뉴 이름이 펼쳐집니다. 모바일은 하단 고정 메뉴를 사용합니다. `ProjectFlow`를 누르면 전체 달력, `Today`를 누르면 오늘 화면으로 이동합니다. 모바일에서도 상단 `ProjectFlow` 또는 `Open calendar`로 전체 달력에 돌아갈 수 있습니다.
 
 ## 실제 서비스 화면
-2026년 10월 4일 공개 배포 URL에서 촬영한 화면입니다. 메모 화면은 검증용 예시이며, API 키는 포함하지 않았습니다. AI 증빙은 이전 실제 호출 장면을 유지합니다.
+시간표와 Today 화면은 2026년 10월 4일 동일 코드를 로컬에서 실행해 예시 데이터로 촬영했습니다. 메모 화면도 검증용 예시이며, API 키는 포함하지 않았습니다. AI 증빙은 공개 배포 URL에서 실제로 호출한 장면입니다.
 
 ### 데스크톱
 ![데스크톱 대시보드](docs/screenshots/semester-desktop.png)
@@ -38,6 +39,11 @@
 <img src="docs/screenshots/semester-mobile.png" alt="모바일 대시보드 전체 화면" width="320">
 
 </details>
+
+### Today
+![오늘 일정과 할 일](docs/screenshots/today-desktop.png)
+
+오늘 예정이거나 오늘 마감인 작업을 모읍니다. 복습은 별도로 표시하며, 완료한 항목은 `Completed`에서 다시 열 수 있습니다.
 
 ### Notes
 ![Notes 자동 저장과 프로젝트 연결](docs/screenshots/notes-desktop.png)
